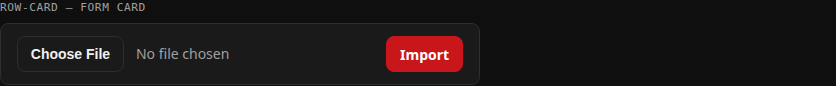
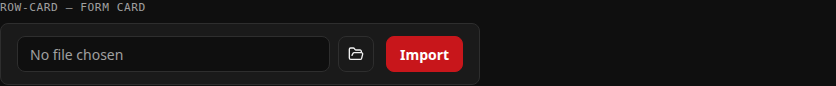
Import: file name box with a folder button, replacing the browser's file button (#1467)
The browser's own file button can't be placed or given an icon, and
renders differently per browser. The real input is visually hidden
inside a label, keeping its focus and accessible name; a box shows the
chosen file's name and a folder button on its right opens the picker.
Catalogue and coding standard updated.

Changed region(s): [[0.0311, 0.5581, 0.2799, 0.6977], [0.4043, 0.5349, 0.4354, 0.6977]]

diff --git a/docs/ui-component-catalog/swatch.html b/docs/ui-component-catalog/swatch.html
@@ -91,14 +91,13 @@
 </div>
 
 <div class="swatch" id="s-btn">
-  <div class="swatch-label">btn / btn-primary / btn-danger, and a file input</div>
+  <div class="swatch-label">btn / btn-primary / btn-danger</div>
   <div class="swatch-body flex flex-col gap-3">
     <div class="flex gap-2">
       <button type="button" class="btn">Set up 2FA</button>
       <button type="button" class="btn btn-primary">Save</button>
       <button type="button" class="btn btn-danger">Turn off</button>
     </div>
-    <input class="text-sm text-muted file:btn file:mr-3 file:cursor-pointer" type="file">
   </div>
 </div>
 
@@ -163,7 +162,11 @@
   <div class="swatch-label">row-card — form card</div>
   <div class="swatch-body">
     <form class="row-card flex flex-wrap items-center gap-3">
-      <input class="flex-1 min-w-[14rem] text-sm text-muted file:btn file:mr-3 file:cursor-pointer" type="file">
+      <label class="group flex flex-1 min-w-[14rem] items-center gap-2 cursor-pointer">
+        <input class="sr-only" type="file">
+        <span class="flex-1 min-w-0 h-(--field-h) flex items-center px-3 bg-background border border-field-border rounded-app text-sm text-muted truncate group-hover:border-accent">No file chosen</span>
+        <span class="btn shrink-0 w-(--field-h) px-0 group-hover:border-accent group-has-[:focus-visible]:outline-2 group-has-[:focus-visible]:outline-offset-2 group-has-[:focus-visible]:outline-foreground" aria-hidden="true"><svg class="w-4 h-4 stroke-current fill-none" viewBox="0 0 24 24" stroke-width="2" stroke-linecap="round" stroke-linejoin="round"><path d="m6 14 1.5-2.9A2 2 0 0 1 9.24 10H20a2 2 0 0 1 1.94 2.5l-1.54 6a2 2 0 0 1-1.95 1.5H4a2 2 0 0 1-2-2V5a2 2 0 0 1 2-2h3.9a2 2 0 0 1 1.69.9l.81 1.2a2 2 0 0 0 1.67.9H18a2 2 0 0 1 2 2v2"></path></svg></span>
+      </label>
       <button type="button" class="btn btn-primary shrink-0">Import</button>
     </form>
   </div>

diff --git a/client/components/climbing-import.js b/client/components/climbing-import.js
@@ -10,6 +10,8 @@ const IMPORT_URL = "/-/api/entries/import";
 class ClimbingImport extends HTMLElement {
   #form;
   #fileInput;
+  #fileName;
+  #noFile;
   #submitBtn;
   #status;
   #errors;
@@ -21,6 +23,9 @@ class ClimbingImport extends HTMLElement {
     if (this.#form) return;
     this.#form = this.querySelector("#import-form");
     this.#fileInput = this.querySelector("#import-file-input");
+    this.#fileName = this.querySelector("#import-file-name");
+    this.#noFile = this.#fileName.textContent;
+    this.#fileInput.addEventListener("change", () => this.#showFileName());
     this.#submitBtn = this.querySelector("#import-submit-btn");
     this.#status = this.querySelector("#import-status");
     this.#errors = this.querySelector("#import-errors");
@@ -35,6 +40,12 @@ class ClimbingImport extends HTMLElement {
       e.preventDefault();
       this.#submit();
     });
+  }
+
+  #showFileName() {
+    this.#fileName.textContent = this.#fileInput.files[0]?.name ?? this.#noFile;
+    this.#fileName.classList.toggle("text-foreground", this.#fileInput.files.length > 0);
+    this.#fileName.classList.toggle("text-muted", this.#fileInput.files.length === 0);
   }
 
   #reset() {
@@ -90,6 +101,7 @@ class ClimbingImport extends HTMLElement {
       this.#successMessage.textContent = `Imported ${data.imported} ${data.imported === 1 ? "entry" : "entries"}.`;
       this.#success.hidden = false;
       this.#form.reset();
+      this.#showFileName();
       this.dispatchEvent(new CustomEvent("import-complete", { bubbles: true, detail: { imported: data.imported } }));
     } catch {
       this.#status.hidden = true;

diff --git a/test/client/climbing-import.test.js b/test/client/climbing-import.test.js
@@ -29,6 +29,14 @@ afterEach(() => {
 });
 
 describe("ClimbingImport", () => {
+  it("shows the chosen file's name in place of 'No file chosen' (#1467)", () => {
+    const name = el.querySelector("#import-file-name");
+    expect(name.textContent).toBe("No file chosen");
+    chooseFile("log.csv", "name\n");
+    el.querySelector("#import-file-input").dispatchEvent(new Event("change"));
+    expect(name.textContent).toBe("log.csv");
+  });
+
   it("fires import-complete with the count after a successful import", async () => {
     vi.stubGlobal(
       "fetch",

diff --git a/docs/ui-component-catalog.md b/docs/ui-component-catalog.md
@@ -198,12 +198,21 @@ whole-page forms are already their own container, so they don't get one.
 
 ```html
 <form class="row-card flex flex-wrap items-center gap-3" id="import-form">
-  <input class="flex-1 min-w-[14rem] text-sm text-muted file:btn file:mr-3 file:cursor-pointer" id="import-file-input" type="file" required>
+  <label class="group flex flex-1 min-w-[14rem] items-center gap-2 cursor-pointer">
+    <input class="sr-only" id="import-file-input" aria-labelledby="import-file-label" name="file" type="file" required>
+    <span class="flex-1 min-w-0 h-(--field-h) flex items-center px-3 bg-background border border-field-border rounded-app text-sm text-muted truncate group-hover:border-accent" id="import-file-name">No file chosen</span>
+    <span class="btn shrink-0 w-(--field-h) px-0 group-hover:border-accent group-has-[:focus-visible]:outline-2 group-has-[:focus-visible]:outline-offset-2 group-has-[:focus-visible]:outline-foreground" aria-hidden="true"><!-- folder icon --></span>
+  </label>
   <button type="submit" class="btn btn-primary shrink-0" id="import-submit-btn">Import</button>
 </form>
 ```
 
-(`views/_includes/import-panel.njk`.) Others: adding a passkey, the 2FA
+(`views/_includes/import-panel.njk`.) The file picker is a box showing the
+chosen file's name, with a folder button on its right. The real
+`<input type="file">` is visually hidden inside the `<label>`, so clicking
+either part opens the picker. The input keeps keyboard focus and its
+accessible name, and the folder button shows the focus ring.
+`climbing-import.js` puts the file's name in the box. Others: adding a passkey, the 2FA
 password and setup forms, and the health data agreement.
 
 ## `btn` / `btn-primary` / `btn-danger`
@@ -224,21 +233,20 @@ colour; `btn-danger` turns its text red.
   that makes the account less secure (*Turn off* 2FA). It's used even when
   the button only opens a confirmation.
 
-A file input styles its own button as `btn`, through Tailwind's `file:`
-variant.
+A file input doesn't use the browser's own button, which can't be moved
+or given an icon. See the form card variant.
 
 | Dark | Light |
 |---|---|
-| ![btn, btn-primary, btn-danger and a file input](ui-component-catalog/btn-dark.png) | ![btn, btn-primary, btn-danger and a file input](ui-component-catalog/btn-light.png) |
+| ![btn, btn-primary and btn-danger](ui-component-catalog/btn-dark.png) | ![btn, btn-primary and btn-danger](ui-component-catalog/btn-light.png) |
 
 ```html
 <button type="button" class="btn" id="setup-start-btn">Set up 2FA</button>
 <button type="submit" class="btn btn-primary" id="password-save-btn">Save</button>
 <button type="button" class="btn btn-danger" id="turn-off-btn">Turn off</button>
-<input class="text-sm text-muted file:btn file:mr-3 file:cursor-pointer" type="file">
 ```
 
-(`views/account/authentication/index.njk`, `views/_includes/import-panel.njk`)
+(`views/account/authentication/index.njk`)
 
 ## Switch control (`switch-track` / `switch-thumb`)
 

diff --git a/docs/coding-standards.md b/docs/coding-standards.md
@@ -328,8 +328,10 @@ decision and why it's an ongoing constraint, not a single shipped feature.
 - **A form with inputs sits in a card** (`row-card`), with a red submit
   and a grey *Cancel*. Modals and whole-page forms are already their own
   container, so they get no card.
-- **File inputs style their button as `btn`**: `file:btn file:mr-3
-  file:cursor-pointer` on the `<input type="file">`.
+- **File inputs** are a box showing the file's name with a folder button
+  on its right, and the real input visually hidden inside a `<label>`
+  (`views/_includes/import-panel.njk`). The browser's own file button
+  can't be placed or given an icon.
 
 ### Verification
 
